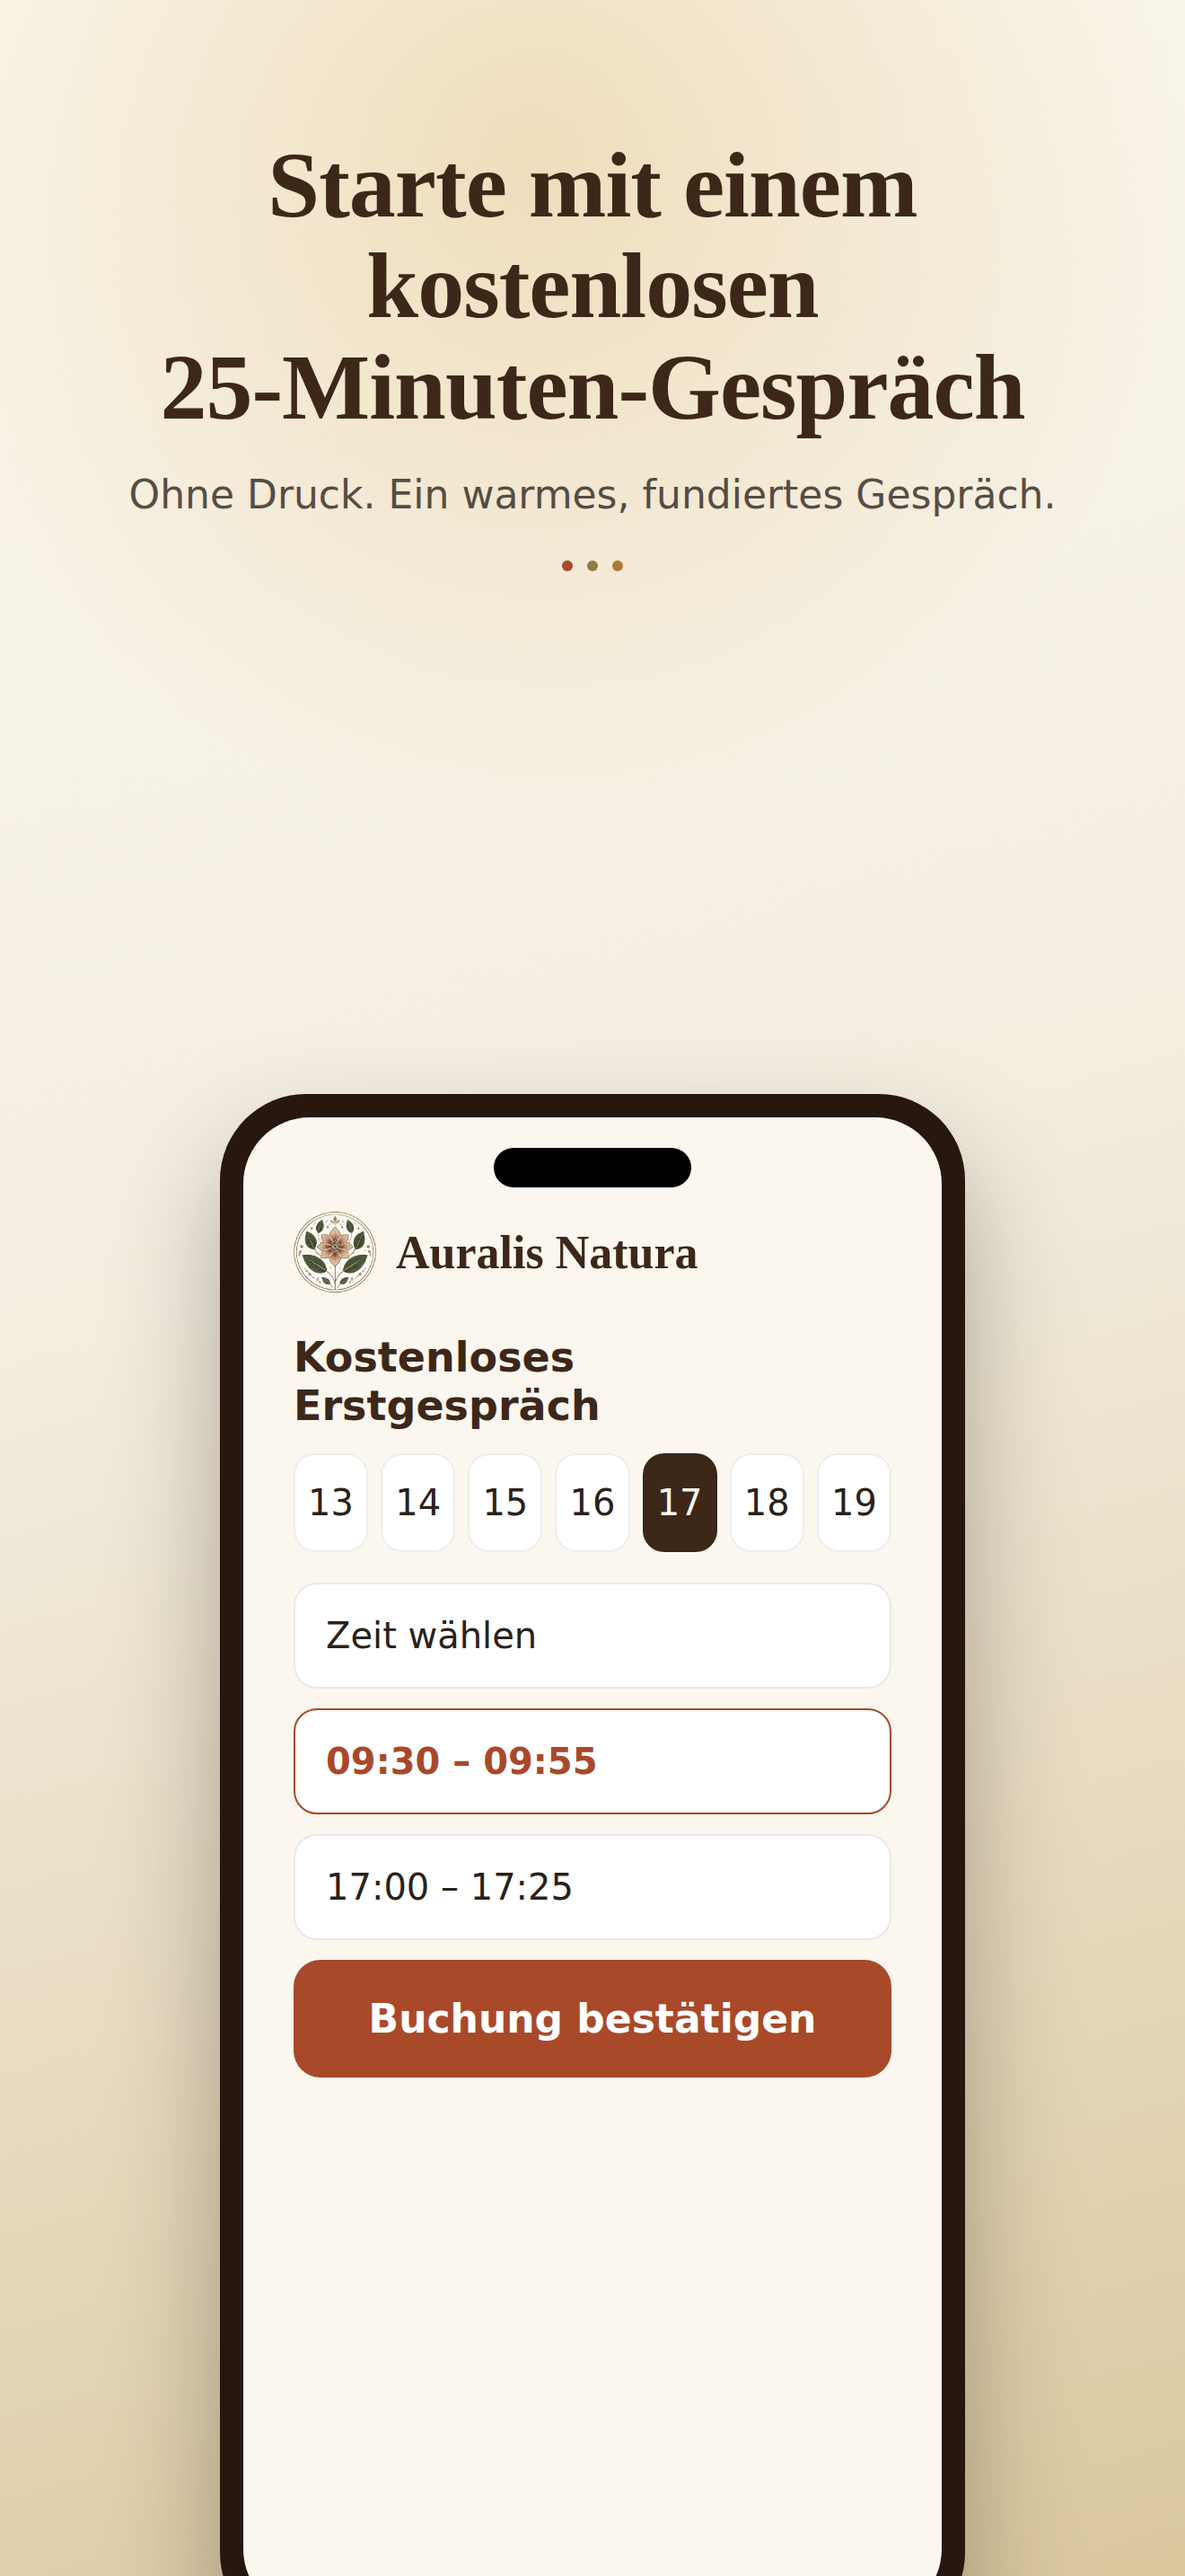
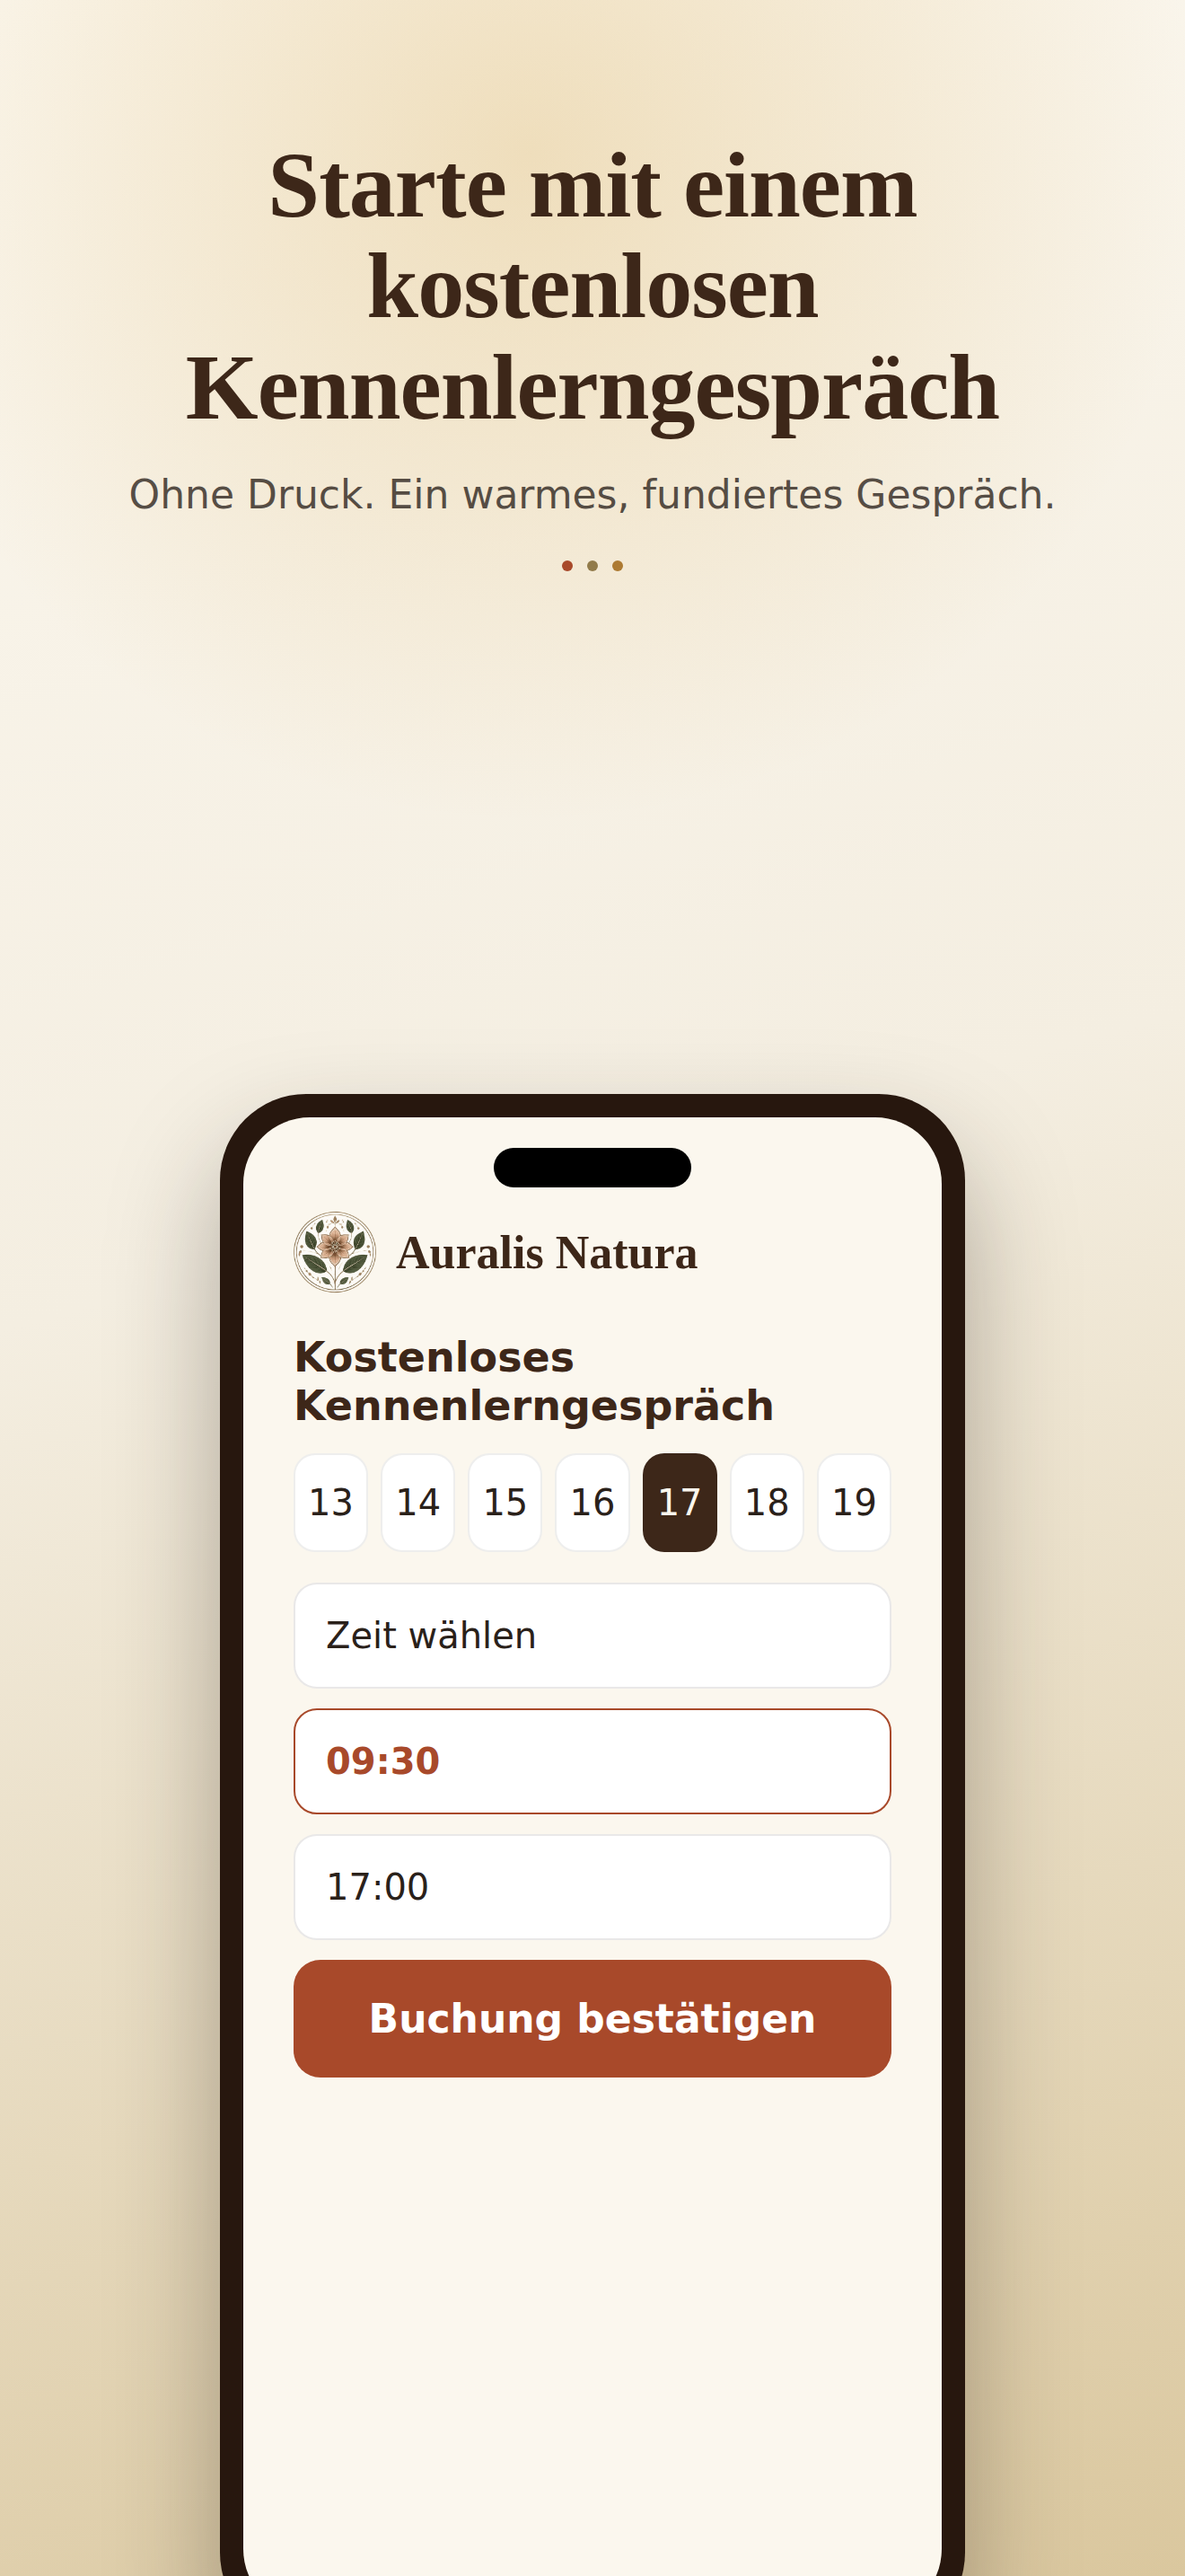
store: the listing now describes the app that actually exists
The review notes said sign-in was required, which stopped being true the moment
guest mode shipped; they now say the app opens without an account and name the
guidelines the Stripe payments rest on (3.1.3(d) person-to-person, 3.1.3(e)
services consumed outside the app). privacy_url pointed at the homepage in all
four locales rather than the policy.

The screenshots were mockups of things the app does not do. The worst was a
'Wellbeing score 82' ring: §2 says a self-rating is never a score — the rule
already enforced in render.py and ScaleRow — and Apple 2.3.3 wants real screens.
It shows the real progress band instead. They also revealed the 25-minute slot
length through '09:30 – 09:55', which the 2026-08-10 decision forbids
customer-facing, and called the call an Erstgespräch rather than the approved
Kennenlerngespräch. German and Spanish still promised a 6-week programme that
became 4 weeks in August.

Adds PrivacyInfo.xcprivacy (UserDefaults CA92.1, no tracking, nothing linked to
advertising) and drops iPad from the build, because iPad shipped as a supported
destination with zero iPad screenshots. Descriptions now say the app can be
explored freely, German master with EN/ES derived.

Correction for the record: barca/1234 is not a placeholder — create_review_client.py
provisions exactly those credentials. It only needs running once on the live portal.

Claude-Session: https://claude.ai/code/session_01LjwW7ZBWxhfRKVTPMyPENb

diff --git a/ios-app/scripts/gen_screenshots.py b/ios-app/scripts/gen_screenshots.py
@@ -38,21 +38,21 @@ T = {
 }
 
 # Per-screen phone mock content (label chips shared across languages, kept minimal/visual)
-CHIP = {"en-US":{"greet":"Good morning, Elena","score":"Wellbeing score","today":"Today’s focus",
+CHIP = {"en-US":{"greet":"Good morning, Elena","prog":"YOUR PROGRESS","milestone":"Desiree is preparing your report.","pcta":"Read your report","today":"Today’s focus",
                  "plan":"Your 4-week plan","week":"Week 2 of 4","report":"Your Report","radar":"Energy · Sleep · Stress · Digestion",
-                 "book":"Free first session","pick":"Choose a time","confirm":"Confirm booking",
+                 "book":"Free introductory call","pick":"Choose a time","confirm":"Confirm booking",
                  "h1":"10-min morning walk","h2":"Protein-rich breakfast","h3":"Wind-down by 22:30",
                  "m1":"Listen — your story & goals","m2":"Analyse — patterns & science","m3":"Align — 3 realistic actions","m4":"Sustain — habits that stay",
                  "r1":"The science, simply — what may help & why.","r2":"Your plan — 3 prioritised steps."},
-        "de-DE":{"greet":"Guten Morgen, Elena","score":"Wohlbefinden","today":"Fokus heute",
-                 "plan":"Dein 6-Wochen-Plan","week":"Woche 2 von 6","report":"Dein Bericht","radar":"Energie · Schlaf · Stress · Verdauung",
-                 "book":"Kostenloses Erstgespräch","pick":"Zeit wählen","confirm":"Buchung bestätigen",
+        "de-DE":{"greet":"Guten Morgen, Elena","prog":"DEIN FORTSCHRITT","milestone":"Desiree bereitet deinen Bericht vor.","pcta":"Bericht lesen","today":"Fokus heute",
+                 "plan":"Dein 4-Wochen-Plan","week":"Woche 2 von 4","report":"Dein Bericht","radar":"Energie · Schlaf · Stress · Verdauung",
+                 "book":"Kostenloses Kennenlerngespräch","pick":"Zeit wählen","confirm":"Buchung bestätigen",
                  "h1":"10-Min-Morgenspaziergang","h2":"Eiweißreiches Frühstück","h3":"Ausklang bis 22:30",
                  "m1":"Zuhören — deine Geschichte & Ziele","m2":"Analysieren — Muster & Wissenschaft","m3":"Ausrichten — 3 realistische Schritte","m4":"Halten — Gewohnheiten, die bleiben",
                  "r1":"Die Wissenschaft, einfach — was helfen kann und warum.","r2":"Dein Plan — 3 priorisierte Schritte."},
-        "es-ES":{"greet":"Buenos días, Elena","score":"Bienestar","today":"Foco de hoy",
-                 "plan":"Tu plan de 6 semanas","week":"Semana 2 de 6","report":"Tu informe","radar":"Energía · Sueño · Estrés · Digestión",
-                 "book":"Sesión inicial gratis","pick":"Elige una hora","confirm":"Confirmar reserva",
+        "es-ES":{"greet":"Buenos días, Elena","prog":"TU PROGRESO","milestone":"Desiree prepara tu informe.","pcta":"Leer tu informe","today":"Foco de hoy",
+                 "plan":"Tu plan de 4 semanas","week":"Semana 2 de 4","report":"Tu informe","radar":"Energía · Sueño · Estrés · Digestión",
+                 "book":"Llamada de presentación gratuita","pick":"Elige una hora","confirm":"Confirmar reserva",
                  "h1":"Paseo matutino de 10 min","h2":"Desayuno rico en proteínas","h3":"Desconexión a las 22:30",
                  "m1":"Escuchar — tu historia y metas","m2":"Analizar — patrones y ciencia","m3":"Alinear — 3 pasos realistas","m4":"Sostener — hábitos que permanecen",
                  "r1":"La ciencia, simple — qué puede ayudar y por qué.","r2":"Tu plan — 3 pasos priorizados."},
@@ -73,8 +73,12 @@ def phone_screen(kind, c):
     if kind == "hero":
         body = f"""
           <div class="ph-greet">{c['greet']}</div>
-          <div class="ring-wrap">
-            <div class="ring"><div class="ring-num">82</div><div class="ring-lbl">{c['score']}</div></div>
+          <div class="pband">
+            <div class="pb-top"><span class="pb-k">{c['prog']}</span>
+              <span class="pb-f"><b>2</b>/4</span></div>
+            <div class="pb-segs"><i class="on"></i><i class="on"></i><i class="now"></i><i></i></div>
+            <div class="pb-ms">{c['milestone']}</div>
+            <div class="pb-cta">{c['pcta']}</div>
           </div>
           <div class="ph-sec">{c['today']}</div>
           <div class="ph-card"><span class="dot"></span>{c['h1']}</div>
@@ -103,8 +107,8 @@ def phone_screen(kind, c):
             {''.join(f'<div class="cal-d {"on" if d==17 else ""}">{d}</div>' for d in range(13,20))}
           </div>
           <div class="slot">{c['pick']}</div>
-          <div class="slot on">09:30 – 09:55</div>
-          <div class="slot">17:00 – 17:25</div>
+          <div class="slot on">09:30</div>
+          <div class="slot">17:00</div>
           <div class="cta">{c['confirm']}</div>"""
     return header + f'<div class="ph-body">{body}</div>'
 
@@ -160,6 +164,19 @@ def page(locale, kind):
         border:none}}
       .radar::before{{content:'';position:absolute;inset:60px;border-radius:50%;border:3px solid rgba(146,123,74,.35)}}
       .radar::after{{content:'';position:absolute;inset:140px;border-radius:50%;border:3px solid rgba(146,123,74,.25)}}
+      .pband{{margin:14px 0 30px;padding:34px 32px;background:linear-gradient(150deg,#5A3A22,#3D2719 55%,#221305);
+        border:2px solid rgba(173,122,50,.42)}}
+      .pb-top{{display:flex;align-items:baseline;justify-content:space-between}}
+      .pb-k{{font-size:26px;letter-spacing:5px;color:#D6A84E;font-weight:600}}
+      .pb-f{{font-family:'Fraunces',Georgia,serif;font-size:38px;color:rgba(246,239,227,.55)}}
+      .pb-f b{{font-size:80px;color:#D6A84E;font-weight:600}}
+      .pb-segs{{display:flex;gap:10px;margin:26px 0 22px}}
+      .pb-segs i{{flex:1;height:12px;background:rgba(246,239,227,.12)}}
+      .pb-segs i.on{{background:#D6A84E}}
+      .pb-segs i.now{{background:rgba(214,168,78,.45)}}
+      .pb-ms{{font-size:32px;color:rgba(246,239,227,.78);line-height:1.4}}
+      .pb-cta{{margin-top:26px;padding:26px;text-align:center;font-size:36px;font-weight:600;
+        color:#221305;background:linear-gradient(180deg,#D6A84E,#AD7A32)}}
       .radar-poly{{position:absolute;inset:0;clip-path:polygon(50% 8%,88% 34%,78% 82%,26% 88%,10% 40%);
         background:rgba(168,73,42,.34);border:4px solid {CLAY};border-radius:12px}}
       .radar-cap{{text-align:center;color:{INK};opacity:.62;font-size:33px;margin-bottom:30px}}

diff --git a/portal/tests/test_ios_contract.py b/portal/tests/test_ios_contract.py
@@ -112,6 +112,47 @@ def run():
     check("no unfounded popularity badge on the website",
           not [b for b in banned if b.lower() in site.lower()])
 
+    print("· the App Store listing tells the truth about the app")
+    md = ROOT.parent / "ios-app" / "fastlane" / "metadata"
+    notes = (md / "review_information" / "notes.txt").read_text(encoding="utf-8")
+    check("review notes no longer claim sign-in is required",
+          "Sign-in required" not in notes)
+    check("review notes state the app opens without an account",
+          "NO ACCOUNT IS NEEDED" in notes)
+    check("review notes name the payment guidelines",
+          "3.1.3(d)" in notes and "3.1.3(e)" in notes)
+    for loc in ("de-DE", "en-US", "en-GB", "es-ES"):
+        check(f"{loc}: privacy_url points at the policy, not the homepage",
+              (md / loc / "privacy_url.txt").read_text(encoding="utf-8").strip()
+              == "https://www.auralisnatura.com/impressum.html")
+
+    shots = ROOT.parent / "ios-app" / "scripts" / "gen_screenshots.py"
+    gen = shots.read_text(encoding="utf-8")
+    # §2: a self-rating is never a score, and the screenshots must show the app
+    # as it is (Apple 2.3.3) — an invented "Wellbeing score 82" broke both.
+    check("no invented wellbeing score in the screenshots",
+          "Wellbeing score" not in gen and 'ring-num">82' not in gen)
+    # 2026-08-10: the free call names no duration anywhere customer-facing
+    check("no slot duration is revealed in the screenshots",
+          "09:55" not in gen and "17:25" not in gen)
+    check("the approved term for the free call is used",
+          "Kennenlerngespräch" in gen and "Erstgespräch" not in gen)
+    check("the programme length agrees with config in every locale",
+          "6-Wochen-Plan" not in gen and "6 semanas" not in gen)
+
+    priv = ROOT.parent / "ios-app" / "AuralisApp" / "PrivacyInfo.xcprivacy"
+    check("a privacy manifest ships", priv.exists())
+    if priv.exists():
+        import plistlib
+        pd = plistlib.loads(priv.read_bytes())
+        check("it declares no tracking", pd.get("NSPrivacyTracking") is False)
+        check("it declares the UserDefaults reason",
+              any(a.get("NSPrivacyAccessedAPIType", "").endswith("UserDefaults")
+                  for a in pd.get("NSPrivacyAccessedAPITypes", [])))
+        check("nothing is marked as used for tracking",
+              all(d.get("NSPrivacyCollectedDataTypeTracking") is False
+                  for d in pd.get("NSPrivacyCollectedDataTypes", [])))
+
     print("\n" + ("IOS CONTRACT ALL PASSED ✓" if not FAILS else f"{len(FAILS)} FAILED: {FAILS}"))
     return 0 if not FAILS else 1
 

diff --git a/CLAUDE.md b/CLAUDE.md
@@ -289,6 +289,51 @@ use it for anything customer-facing.
   website, `/book`, the staff console, the mails and the App Store metadata alike.
   A change that lands in German only is an unfinished change.
 
+## 🛒 Gastmodus & Verkaufskanal in der App (2026-08-17)
+- **Die App öffnet ohne Anmeldung.** Beim ersten Start landet man im Gastmodus:
+  Programme, Terminbuchung und veröffentlichte Impulse sind frei zugänglich; Start und
+  Profil zeigen ehrliche Gast-Zustände mit einer `LockedCard`, die benennt, was mit
+  Zugang aufgeht. Apple verlangt genau das in **5.1.1(v)**. Wer sich auf diesem Gerät
+  schon einmal angemeldet hat, kommt weiterhin direkt auf den Login (`an_had_session`).
+  ⚠ **Behobener Fehler:** der alte Gast-Zugang war eine `NavigationLink` in einer auf
+  `.frame(height: 46)` geklemmten `NavigationStack` — der Tap schob das Ziel *in* dieses
+  46-Punkt-Fenster, sichtbar blieb nur ein nackter Chevron. Die Impulse waren im
+  ausgelieferten Build unerreichbar. Nie wieder eine NavigationStack in einem Blatt.
+- **⚑ Bezahlen läuft über Stripe, NICHT über In-App-Kauf — und das ist Apples Vorgabe,
+  keine Umgehung.** 3.1.3(e): Dienstleistungen, die *außerhalb* der App erbracht werden,
+  **müssen** außerhalb des IAP bezahlt werden; 3.1.3(d) erlaubt es ausdrücklich für
+  **Echtzeit-Eins-zu-eins-Dienste**. Ersparnis: 15–30 % Provision (bei Balance €135–270).
+  ⚠ **Dauerhafte Grenze:** 3.1.3(d) sagt „one-to-few and one-to-many real-time services
+  **must** use in-app purchase" — **Verbindung/Corporate und jedes künftige Gruppen-
+  Programm dürfen daher NIE einen Kauf-Button bekommen**, nur den Anfrage-Weg.
+- **Der Kreis ist geschlossen:** `POST /api/stripe/webhook` macht aus einer bezahlten
+  Checkout-Session eine Klientin mit Zugang — Paket setzen, `paid` setzen (Umsatz landet
+  im Cockpit), Journey-Eintrag, Zugangsdaten-Mail. Signaturprüfung mit **stdlib-HMAC**,
+  daher **kein `stripe`-Paket und kein `sk_`** — nur das Signing-Secret
+  `AURALIS_STRIPE_WEBHOOK_SECRET` in `/etc/auralis/portal.env`.
+  ⚠ **Idempotenz ist tragend:** `_issue_credentials()` rotiert *immer* das Passwort, ein
+  Stripe-Retry würde also das gerade gemailte Passwort ungültig machen. Behandelte
+  Event-IDs liegen in `config/stripe_events.json`. Paket-Zuordnung: Metadata `package`
+  → sonst Betrag → sonst **Eskalations-Mail** (Geld wird nie stillschweigend verworfen).
+- **`shop_enabled` in `config.json` ist AUS.** Solange aus, liefert `/api/app/offers`
+  leere `buy_url`s, alle Flächen zeigen den Kennenlerngespräch-CTA. Umlegen erst wenn:
+  Stripe-Produkte umbenannt + Preise korrigiert, **Balance-Payment-Link** existiert,
+  `metadata package=<key>` an allen Links, Webhook-Endpoint eingerichtet,
+  **`email_mode: "send"` + SMTP-Passwort** (sonst wird die Zugangsdaten-Mail nur als
+  Entwurf abgelegt — der Webhook warnt dann per Mail), und **Fernabsatz-Recht geklärt**
+  (Widerrufsrecht, vorvertragliche Infos, Rechnung/IVA mit der Gestoría). Die App wäre
+  der **erste echte Verkaufskanal** — die Website-Buttons stehen noch auf „Coming soon".
+- **App-Store-Listing korrigiert:** Review-Notes sagen jetzt, dass die App ohne Konto
+  nutzbar ist, und nennen 3.1.3(d)/(e); `privacy_url` zeigt auf `impressum.html` statt
+  auf die Startseite; die Screenshots zeigen **keinen erfundenen „Wellbeing score 82"**
+  mehr (§2: Selbsteinschätzung ist nie ein Score, und Apple 2.3.3 verlangt echte
+  Screens), keine Slot-Dauer mehr (2026-08-10) und überall 4 Wochen; `PrivacyInfo.xcprivacy`
+  liegt bei (UserDefaults CA92.1, kein Tracking); **iPad abgewählt**
+  (`TARGETED_DEVICE_FAMILY = 1`), weil es keine iPad-Screenshots gibt.
+  Der Review-Account `barca`/`1234` ist **kein Platzhalter** — `portal/tools/create_review_client.py`
+  legt genau diese Zugangsdaten an; er muss nur **einmal auf dem Live-Portal laufen**.
+  Pins: `tests/test_ios_contract.py`, `tests/test_stripe_webhook.py`.
+
 ## 📊 Selbsteinschätzungs-Skalen: EINE Leserichtung (2026-08-17)
 - **Jede Skala ist „höher = besser" — auch Stress.** Die Frage heißt überall
   **„Stressbalance" (1 = niedrig … 5 = sehr gut)**, so wie es die vom Founder
